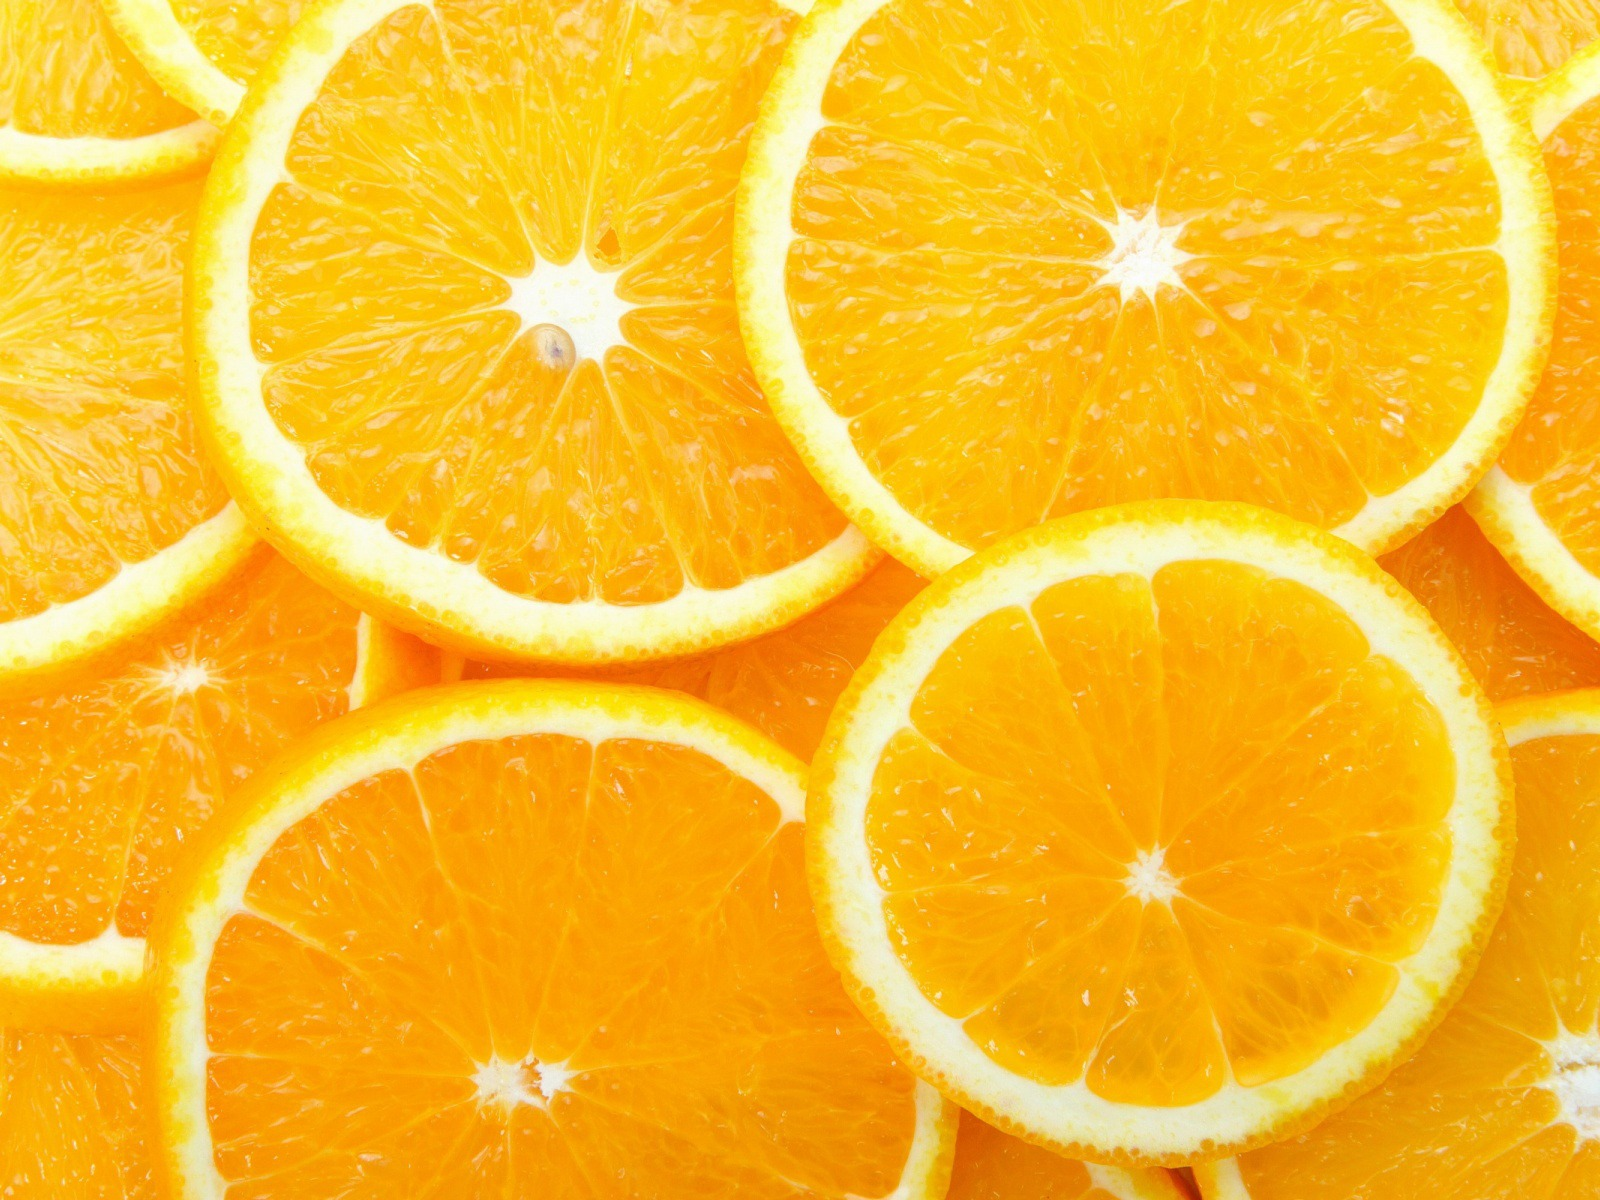
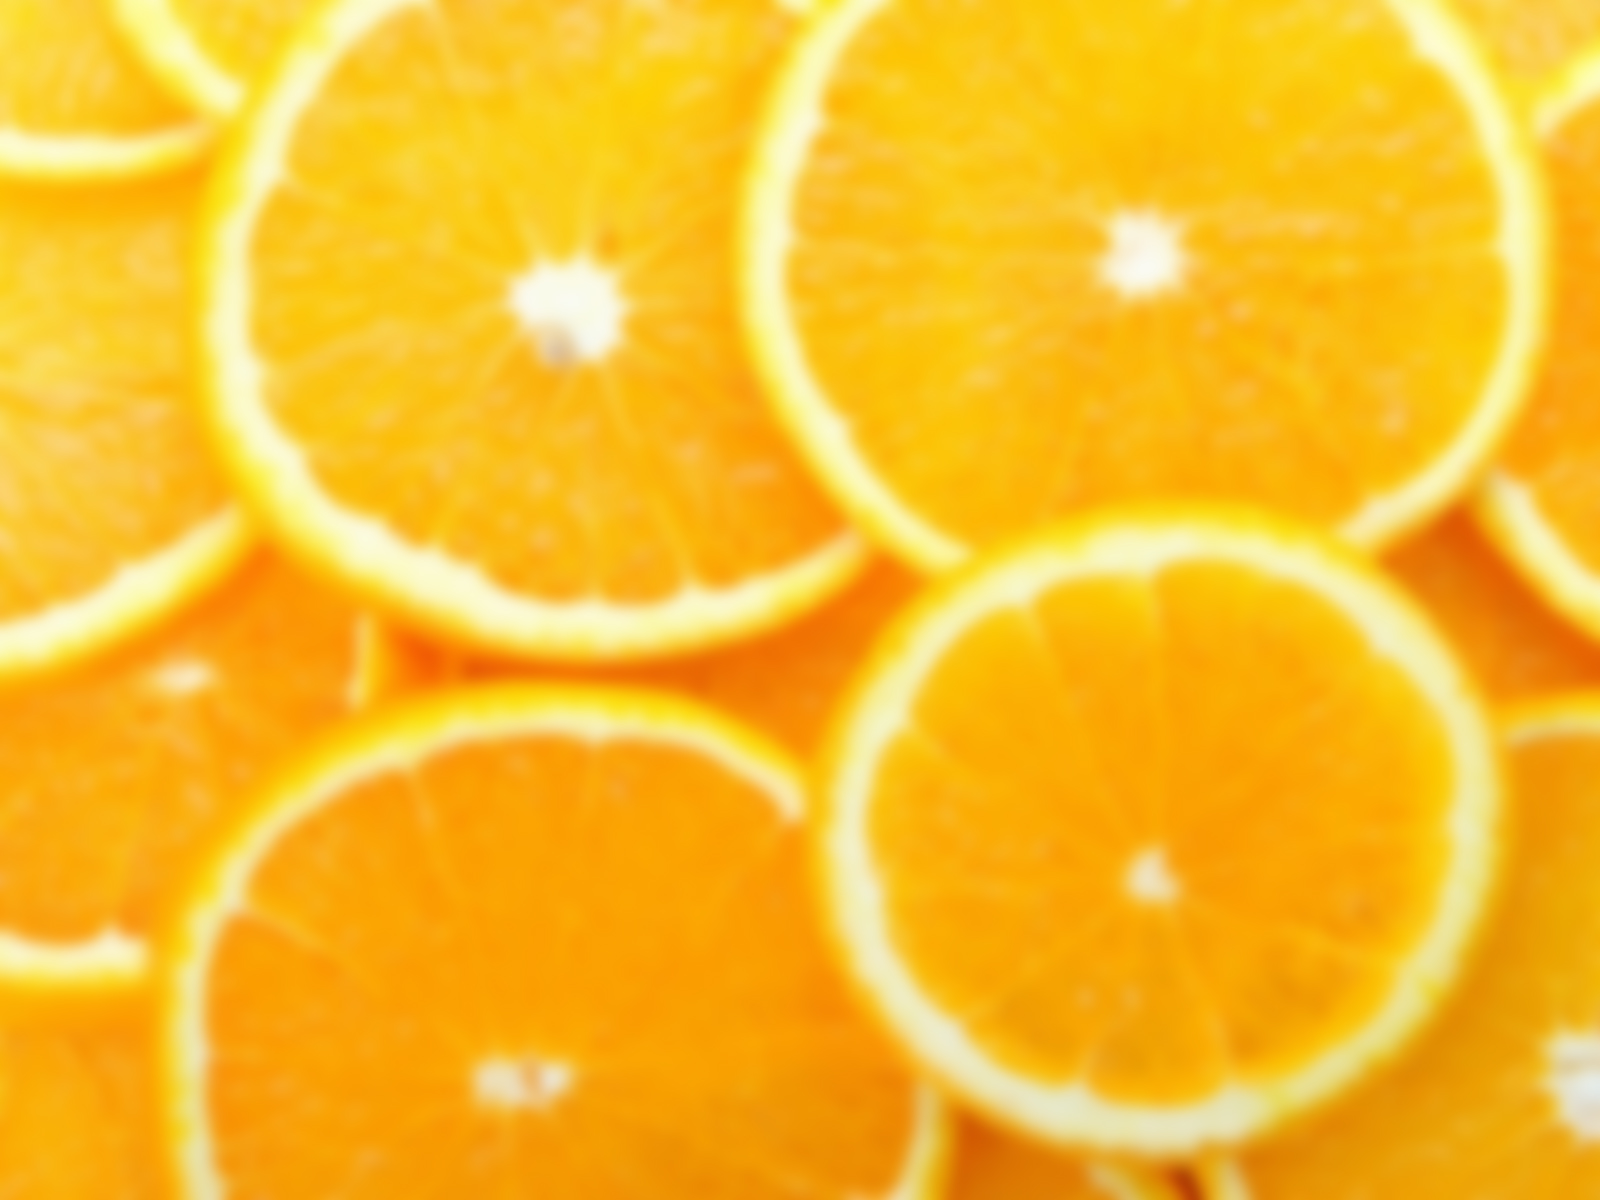
JD | Blured the backgrounds

diff --git a/juice_counter/src/sass/style.scss b/juice_counter/src/sass/style.scss
@@ -5,7 +5,7 @@ body {
     text-align: center;
     font: 1em/1.5 Georgia, serif;
     color: #333;
-    background-image: url("../images/bg_3.png");
+    background-image: url("../images/bg_2.jpg");
     background-size:cover;
     background-repeat: no-repeat;
 }

diff --git a/juice_counter/src/stylesheets/style.css b/juice_counter/src/stylesheets/style.css
@@ -68,7 +68,7 @@ body {
   text-align: center;
   font: 1em/1.5 Georgia, serif;
   color: #333;
-  background-image: url("../images/bg_3.png");
+  background-image: url("../images/bg_2.jpg");
   background-size: cover;
   background-repeat: no-repeat;
 }
